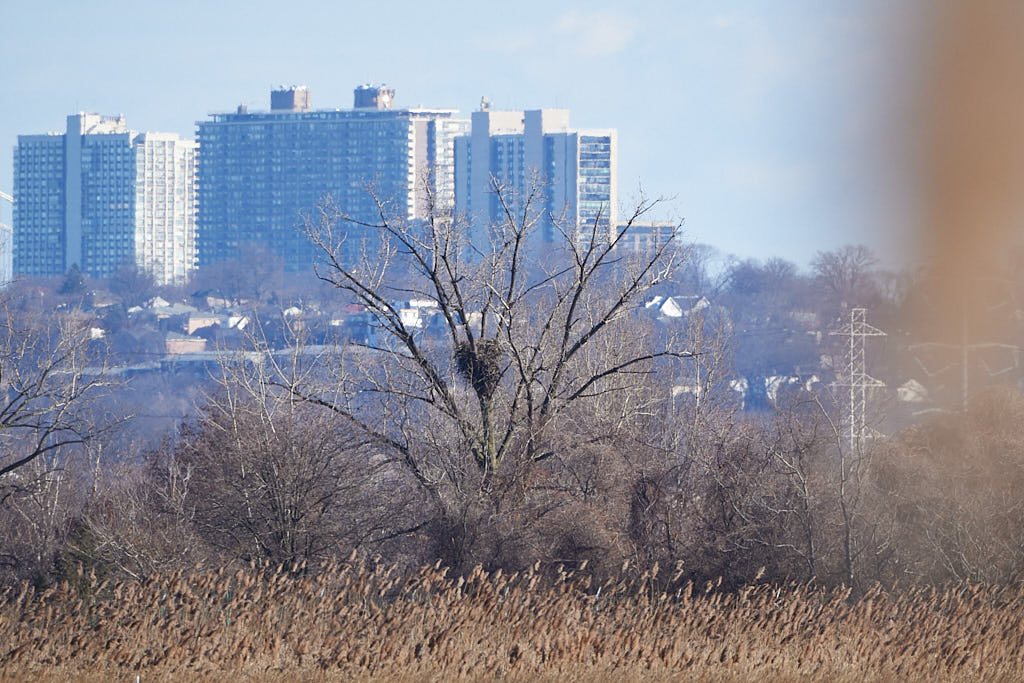
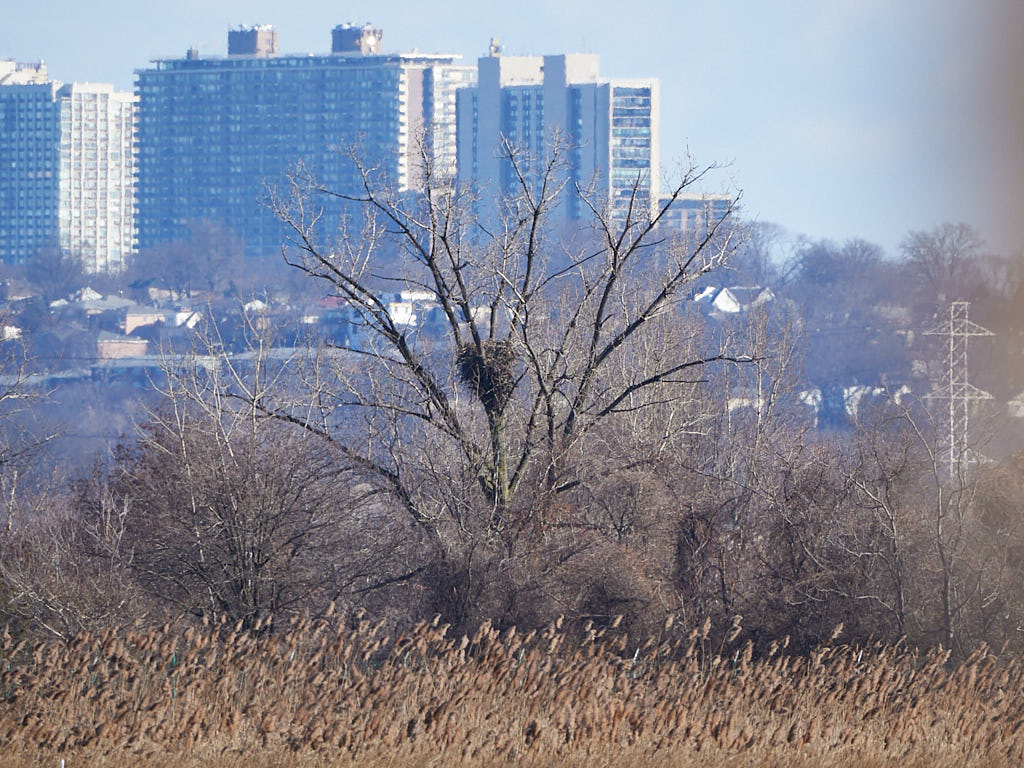
Trim pics on blog post

diff --git a/docs/Blog Archive/2023-01/2023-01-16.md b/docs/Blog Archive/2023-01/2023-01-16.md
@@ -4,16 +4,16 @@
 
 [[Blog#Eagle Fest and DeKorte Park Ducks|< Back to Blog Home]]
 
-![[DSC03672_1.jpg]]{ .blogItem .blogRow2 data-title="House Finch with poofed chest at DeKorte Park"}
+![[IMG_6286_2.jpg]]{ .blogItem .blogRow2 data-title="Me at DeKorte Park after the wind knocked my hat into the water"}
 ![[DSC03984_1.jpg]]{ .blogItem .blogRow2 data-title="View of NYC from DeKorte Park at sunset"}
 ![[DSC03856_1.jpg]]{ .blogItem .blogRow2 data-title="Gadwall flexing chest at DeKorte Park"}
-![[DSC03922_1.jpg]]{ .blogItem .blogRow2 data-title="Northern Pintail showing off at DeKorte Park"}
-![[DSC03837_1.jpg]]{ .blogItem .blogRow2 data-title="Male Bufflehead at DeKorte Park"}
-![[DSC03839_1.jpg]]{ .blogItem .blogRow2 data-title="Female Bufflehead at DeKorte Park"}
+![[DSC03911_2.jpg]]{ .blogItem .blogRow2 data-title="Northern Pintail showing off at DeKorte Park"}
 ![[IMG_6268_1.jpg]]{ .blogItem .blogRow2 data-title="Presentation on Bald Eagles at Bald Eagle Festival"}
 ![[DSC03631_1.jpg]]{ .blogItem .blogRow2 data-title="Bald Eagle nest that could be seen from Bald Eagle Festival"}
+![[DSC03837_1.jpg]]{ .blogItem .blogRow2 data-title="Male Bufflehead at DeKorte Park"}
+![[DSC03839_1.jpg]]{ .blogItem .blogRow2 data-title="Female Bufflehead at DeKorte Park"}
+![[DSC03672_2.jpg]]{ .blogItem .blogRow2 data-title="House Finch with poofed chest at DeKorte Park"}
 ![[DSC03868_2.jpg]]{ .blogItem .blogRow2 data-title="Several species of waterfowl at DeKorte Park"}
-![[IMG_6286_2.jpg]]{ .blogItem .blogRow2 data-title="Me at DeKorte Park after the wind knocked my hat into the water"}
 
 Today my sister and I went to the Bergen County Bald Eagle Festival. I heard about this festival from a flier that a close friend gave me the prior week. I wasn't too sure what to expect since it was also the first time the event was held. I was surprised to see a lot of people at the event, at least 60 people from children to older adults. The event was also very organized and well set up.
 

diff --git a/docs/Blog.md b/docs/Blog.md
@@ -5,16 +5,13 @@
 ## Eagle Fest and DeKorte Park Ducks
 2023-01-16
 
-![[DSC03672_1.jpg]]{ .blogItem .blogRow2 data-title="House Finch with poofed chest at DeKorte Park"}
+
+![[IMG_6286_2.jpg]]{ .blogItem .blogRow2 data-title="Me at DeKorte Park after the wind knocked my hat into the water"}
 ![[DSC03984_1.jpg]]{ .blogItem .blogRow2 data-title="View of NYC from DeKorte Park at sunset"}
 ![[DSC03856_1.jpg]]{ .blogItem .blogRow2 data-title="Gadwall flexing chest at DeKorte Park"}
-![[DSC03922_1.jpg]]{ .blogItem .blogRow2 data-title="Northern Pintail showing off at DeKorte Park"}
-![[DSC03837_1.jpg]]{ .blogItem .blogRow2 data-title="Male Bufflehead at DeKorte Park"}
-![[DSC03839_1.jpg]]{ .blogItem .blogRow2 data-title="Female Bufflehead at DeKorte Park"}
+![[DSC03911_2.jpg]]{ .blogItem .blogRow2 data-title="Northern Pintail showing off at DeKorte Park"}
 ![[IMG_6268_1.jpg]]{ .blogItem .blogRow2 data-title="Presentation on Bald Eagles at Bald Eagle Festival"}
 ![[DSC03631_1.jpg]]{ .blogItem .blogRow2 data-title="Bald Eagle nest that could be seen from Bald Eagle Festival"}
-![[DSC03868_2.jpg]]{ .blogItem .blogRow2 data-title="Several species of waterfowl at DeKorte Park"}
-![[IMG_6286_2.jpg]]{ .blogItem .blogRow2 data-title="Me at DeKorte Park after the wind knocked my hat into the water"}
 
 Today my sister and I went to the Bergen County Bald Eagle Festival. I heard about this festival from a flier that a close friend gave me the prior week. I wasn't too sure what to expect since it was also the first time the event was held. I was surprised to see a lot of people at the event, at least 60 people from children to older adults. The event was also very organized and well set up.
 
